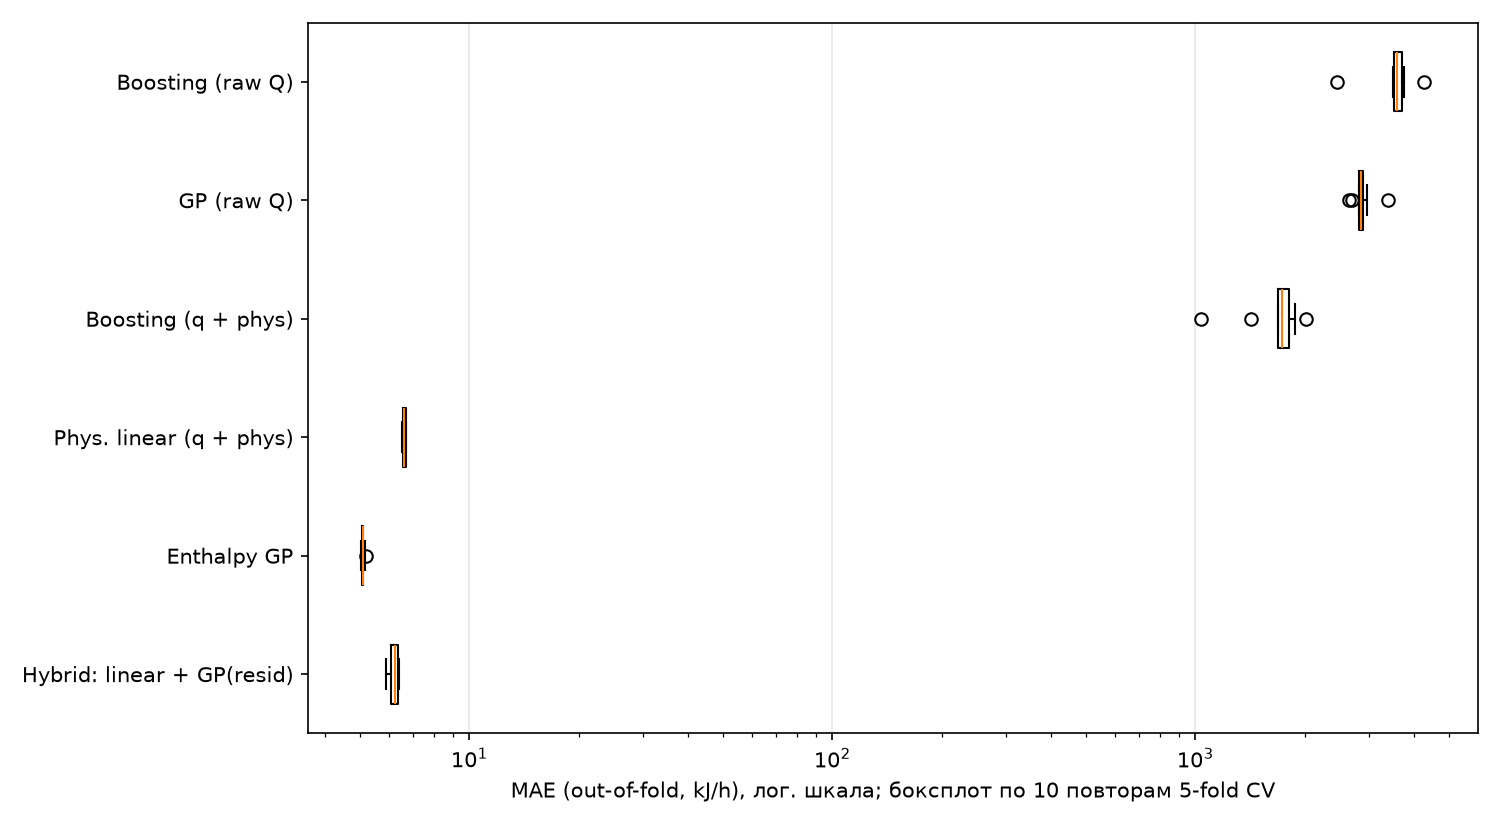
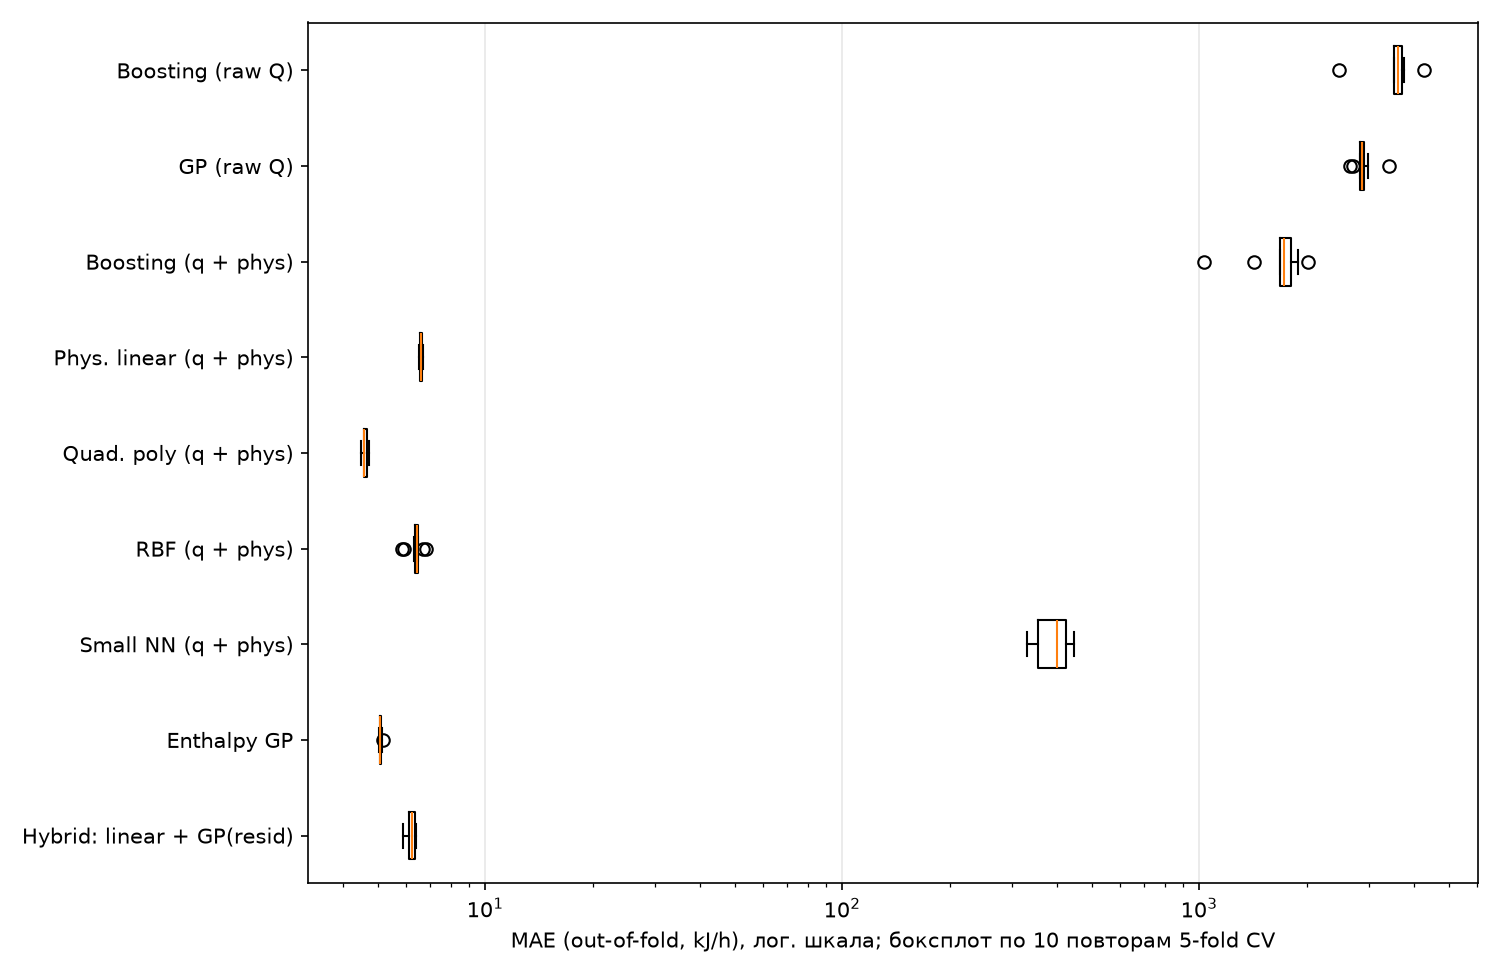
Add RBF, small neural net and quadratic polynomial to model comparison
- heater_07/08: three extra models on equal footing (q = Q/Flow + physical
  features); bar colors in the extrapolation plot are now name-based.
- Findings: quadratic polynomial is the most accurate in CV (4.6 kJ/h) and on
  two of three range splits; RBF is comparable; the small NN is ~100x worse.
  The GP stays deployed for sigma and the best worst-case extrapolation.
- README: updated tables, findings and lessons; remove completed roadmap item.

diff --git a/src/heater_07_extrapolation.py b/src/heater_07_extrapolation.py
@@ -28,7 +28,11 @@ from sklearn.base import BaseEstimator, RegressorMixin, clone
 from sklearn.ensemble import GradientBoostingRegressor
 from sklearn.gaussian_process import GaussianProcessRegressor
 from sklearn.gaussian_process.kernels import ConstantKernel, Matern, WhiteKernel
+from scipy.interpolate import RBFInterpolator
+from sklearn.compose import TransformedTargetRegressor
 from sklearn.linear_model import LinearRegression
+from sklearn.neural_network import MLPRegressor
+from sklearn.preprocessing import PolynomialFeatures
 from sklearn.metrics import mean_absolute_error, r2_score
 from sklearn.pipeline import make_pipeline
 from sklearn.preprocessing import StandardScaler
@@ -64,6 +68,35 @@ class SpecificModel(BaseEstimator, RegressorMixin):
         return self.base_.predict(self._design(X)) * X[:, 1]
 
 
+class RBFModel(BaseEstimator, RegressorMixin):
+    """RBF-интерполяция (thin-plate spline + линейный хвост => экстраполирует линейно) на стандартизованных признаках."""
+
+    def __init__(self, smoothing=1e-3):
+        self.smoothing = smoothing
+
+    def fit(self, X, y):
+        self.scaler_ = StandardScaler().fit(X)
+        self.rbf_ = RBFInterpolator(self.scaler_.transform(X), np.asarray(y, dtype=float),
+                                    kernel="thin_plate_spline", degree=1, smoothing=self.smoothing)
+        return self
+
+    def predict(self, X):
+        return self.rbf_(self.scaler_.transform(X))
+
+
+def small_nn():
+    """Малая нейросеть 16-16 (tanh), входы и цель стандартизуются."""
+    mlp = make_pipeline(StandardScaler(), MLPRegressor(
+        hidden_layer_sizes=(16, 16), activation="tanh", solver="lbfgs",
+        max_iter=5000, random_state=RANDOM_STATE))
+    return TransformedTargetRegressor(regressor=mlp, transformer=StandardScaler())
+
+
+def quad_poly():
+    """Квадратичный полином (полная степень 2) на стандартизованных признаках."""
+    return make_pipeline(StandardScaler(), PolynomialFeatures(2), LinearRegression())
+
+
 def plain_gp():
     kernel = ConstantKernel(1.0) * Matern(length_scale=[1.0] * 3, nu=2.5) + WhiteKernel(1e-3)
     return make_pipeline(StandardScaler(), GaussianProcessRegressor(
@@ -81,6 +114,9 @@ MODELS = {
     "GP (raw Q)":                lambda: plain_gp(),
     "Boosting (q + phys)":       lambda: SpecificModel(gb()),
     "Phys. linear (q + phys)":   lambda: SpecificModel(LinearRegression()),
+    "Quad. poly (q + phys)":     lambda: SpecificModel(quad_poly()),
+    "RBF (q + phys)":            lambda: SpecificModel(RBFModel()),
+    "Small NN (q + phys)":       lambda: SpecificModel(small_nn()),
     "Enthalpy GP":               lambda: EnthalpyGP(random_state=RANDOM_STATE),
     "Enthalpy GP + kink":        lambda: EnthalpyGP(use_kink=True, random_state=RANDOM_STATE),
 }
@@ -133,7 +169,7 @@ if __name__ == "__main__":
     for j, (split_name, (col, _)) in enumerate(SPLITS.items()):
         ax = axes[0, j]
         r = res[res.split == split_name]
-        ax.barh(r.model, r.MAE, color=["#999"] * 3 + ["#7aa6d6"] * 2 + ["#2a8f3c"] * 2)
+        ax.barh(r.model, r.MAE, color=["#999" if "raw" in m else "#2a8f3c" if "Enthalpy" in m else "#7aa6d6" for m in r.model])
         ax.set_xscale("log")
         ax.invert_yaxis()
         ax.set_title(split_name)

diff --git a/src/heater_08_compare_models.py b/src/heater_08_compare_models.py
@@ -37,7 +37,8 @@ from sklearn.model_selection import RepeatedKFold
 from sklearn.pipeline import make_pipeline
 from sklearn.preprocessing import StandardScaler
 
-from heater_07_extrapolation import SpecificModel, gb, plain_gp
+from heater_07_extrapolation import (RBFModel, SpecificModel, gb, plain_gp,
+                                     quad_poly, small_nn)
 from surrogate_model import EnthalpyGP, FEATURE_COLS, TARGET_COL, ROOT, get_domain
 
 warnings.filterwarnings("ignore")
@@ -81,6 +82,9 @@ MODELS = {
     "GP (raw Q)":                  lambda: plain_gp(),
     "Boosting (q + phys)":         lambda: SpecificModel(gb()),
     "Phys. linear (q + phys)":     lambda: SpecificModel(LinearRegression()),
+    "Quad. poly (q + phys)":       lambda: SpecificModel(quad_poly()),
+    "RBF (q + phys)":              lambda: SpecificModel(RBFModel()),
+    "Small NN (q + phys)":         lambda: SpecificModel(small_nn()),
     "Enthalpy GP":                 lambda: EnthalpyGP(random_state=RANDOM_STATE),
     "Hybrid: linear + GP(resid)":  lambda: HybridModel(),
 }
@@ -111,7 +115,7 @@ if __name__ == "__main__":
             m = np.array(r["MAE"])
             print(f"{name:30s} {np.median(m):12.1f} {m.min():10.1f} .. {m.max():9.1f} {np.median(r['R2']):11.5f}")
 
-        fig, ax = plt.subplots(figsize=(10, 5.5))
+        fig, ax = plt.subplots(figsize=(10, 6.5))
         ax.boxplot([results[n]["MAE"] for n in MODELS], orientation="horizontal", tick_labels=list(MODELS))
         ax.set_xscale("log")
         ax.invert_yaxis()

diff --git a/README.md b/README.md
@@ -42,7 +42,10 @@ confounded by feature engineering.
 | Gaussian Process (raw Q) | 2,850 | 59,500 |
 | Gradient Boosting (q + phys) | 1,730 | 4,100 |
 | Physical linear (q + phys) | 6.6 | 25.5 |
-| **Enthalpy GP** (deployed) | **5.1** | **7.0** |
+| Quadratic polynomial (q + phys) | **4.6** | 14.3 |
+| RBF, thin-plate (q + phys) | 6.4 | 48.7 |
+| Small neural net 16-16 (q + phys) | 400 | 2,805 |
+| **Enthalpy GP** (deployed) | 5.1 | **7.0** |
 | Hybrid: linear + GP on residuals | 6.2 | not tested |
 
 ¹ single 5-fold CV (R² = 0.71); the other rows are medians over 10 repeats.
@@ -75,7 +78,10 @@ of the range and tested on the rest. Test MAE, kJ/h:
 | GP (raw Q) | 17,100 | 5,700 | 59,500 |
 | Boosting (q + phys) | 2,800 | 4,100 | 2,000 |
 | Physical linear (q + phys) | 7.7 | 6.7 | 25.5 |
-| **Enthalpy GP** | **5.8** | **5.4** | **7.0** |
+| Quadratic polynomial (q + phys) | **5.0** | **4.8** | 14.3 |
+| RBF, thin-plate (q + phys) | 7.2 | 6.4 | 48.7 |
+| Small neural net 16-16 (q + phys) | 651 | 2,805 | 2,700 |
+| Enthalpy GP | 5.8 | 5.4 | **7.0** |
 | Enthalpy GP + kink feature | 5.8 | 5.4 | 7.0 |
 
 ![Extrapolation test](figures/extrapolation_test.png)
@@ -86,9 +92,19 @@ of the range and tested on the rest. Test MAE, kJ/h:
   19,400 and 8,300 kJ/h on the Flow and T_in splits.
 - The `max(0, T_out−100)` kink feature gave no gain for the GP (identical to
   3 digits); it stays an optional parameter (`use_kink`), off by default.
-- The GP is kept as the deployed model because it is the most accurate on the
-  hardest split and provides σ, but the physical linear model is a legitimate,
-  simpler alternative.
+- Once q and the phase flag are used, **simple models are as good as the GP**:
+  a quadratic polynomial is the most accurate in interpolation (4.6 kJ/h) and
+  on two of three range splits (it likely captures the slight curvature of
+  cp(T)), the GP is best on the T_out split (7.0 vs 14.3 kJ/h) and RBF with a
+  linear tail stays in the same range (6–49 kJ/h). The small neural net is
+  the exception: 400 kJ/h in CV and 650–2,800 kJ/h when extrapolating,
+  roughly a hundred times worse than the polynomial or more (presumably
+  because a tanh network saturates outside the training data; not
+  investigated further).
+- The GP is kept as the deployed model only because it provides σ and the best
+  worst-case extrapolation; the polynomial has no uncertainty estimate. If σ
+  is not needed, a quadratic polynomial on q with the phase flag is the
+  simplest accurate choice.
 
 ### Uncertainty
 
@@ -141,6 +157,10 @@ of the range and tested on the rest. Test MAE, kJ/h:
    pessimistic, the hybrid's is close to the real error but does not grow
    outside. Calibrate σ against actual errors, and keep an explicit range
    check next to it.
+8. **Simple models win once the structure is right.** With q = Q/Flow and the
+   phase flag, a quadratic polynomial matched or beat a Gaussian Process, and
+   a neural network was 100× worse. Try the simplest model that respects the
+   physics before reaching for a flexible one.
 
 ## Pipeline
 
@@ -164,9 +184,9 @@ of the range and tested on the rest. Test MAE, kJ/h:
    maximum reachable T_out for a given flow (it reports when the limit falls
    short of the latent heat at 100 °C).
 7. **`src/heater_07_extrapolation.py`** — trains on part of each input range
-   and tests on the rest, for 7 models on equal footing.
+   and tests on the rest, for 10 models on equal footing.
 8. **`src/heater_08_compare_models.py`** — 10 × repeated 5-fold CV with
-   boxplots for six approaches (including the hybrid) and the uncertainty
+   boxplots for nine approaches (including the hybrid) and the uncertainty
    plot. `--plots-only` redraws only the uncertainty plot.
 
 ### Using the surrogate from your own code
@@ -240,7 +260,5 @@ python src/heater_08_compare_models.py     # several minutes (repeated CV with G
 - Improve the experimental design (DoE): add points around 100 °C and in the
   corners of the domain, compare LHS against adaptive sampling (needs HYSYS
   and changes to `heater_01`).
-- Extra models for comparison: RBF, a small neural network, a quadratic
-  polynomial.
 - Multi-variable optimization (e.g. cost of Q vs throughput) with
   `scipy.optimize.minimize`; the current script solves 1-D problems only.
